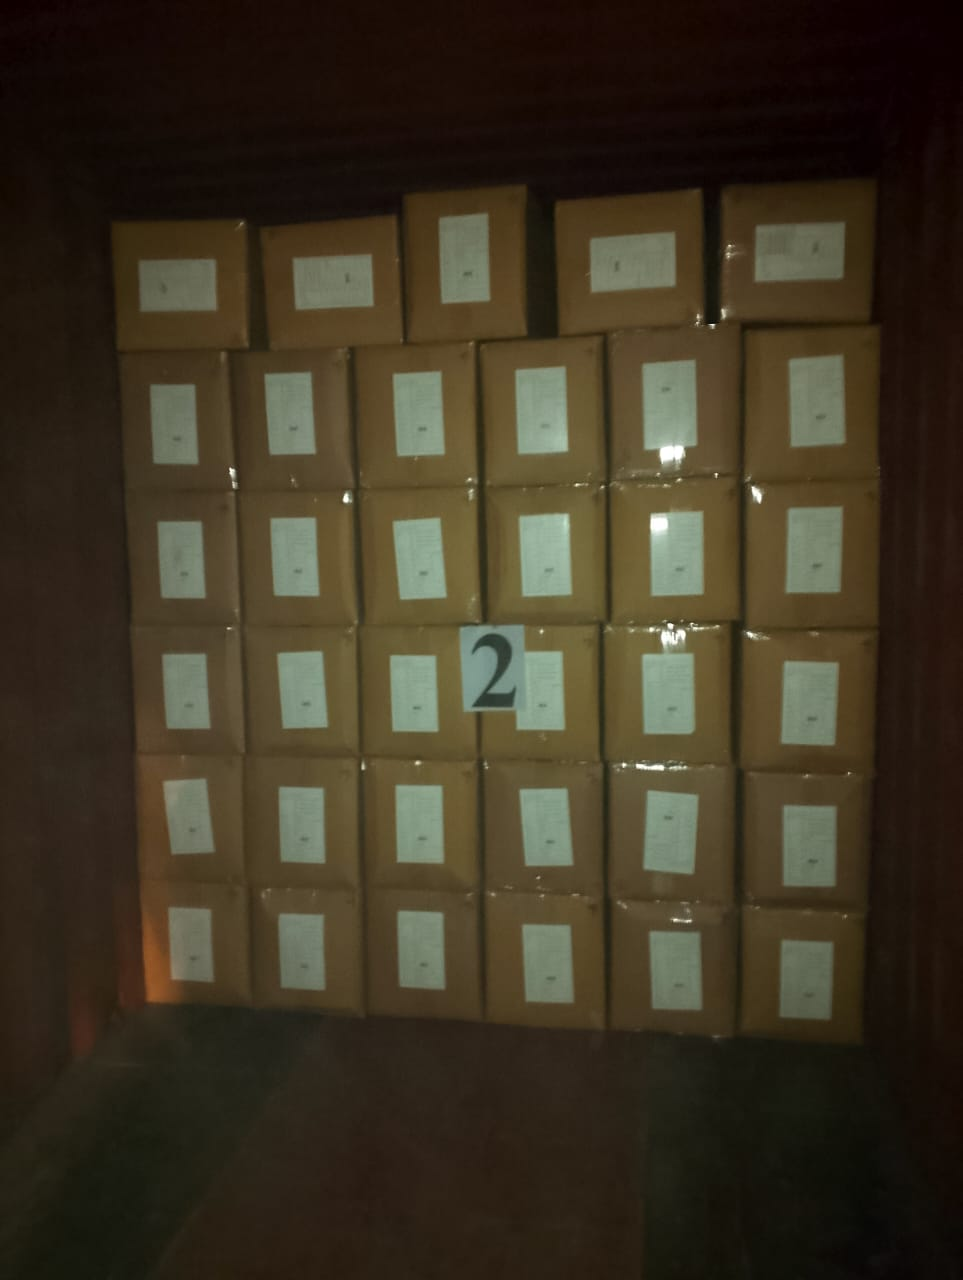
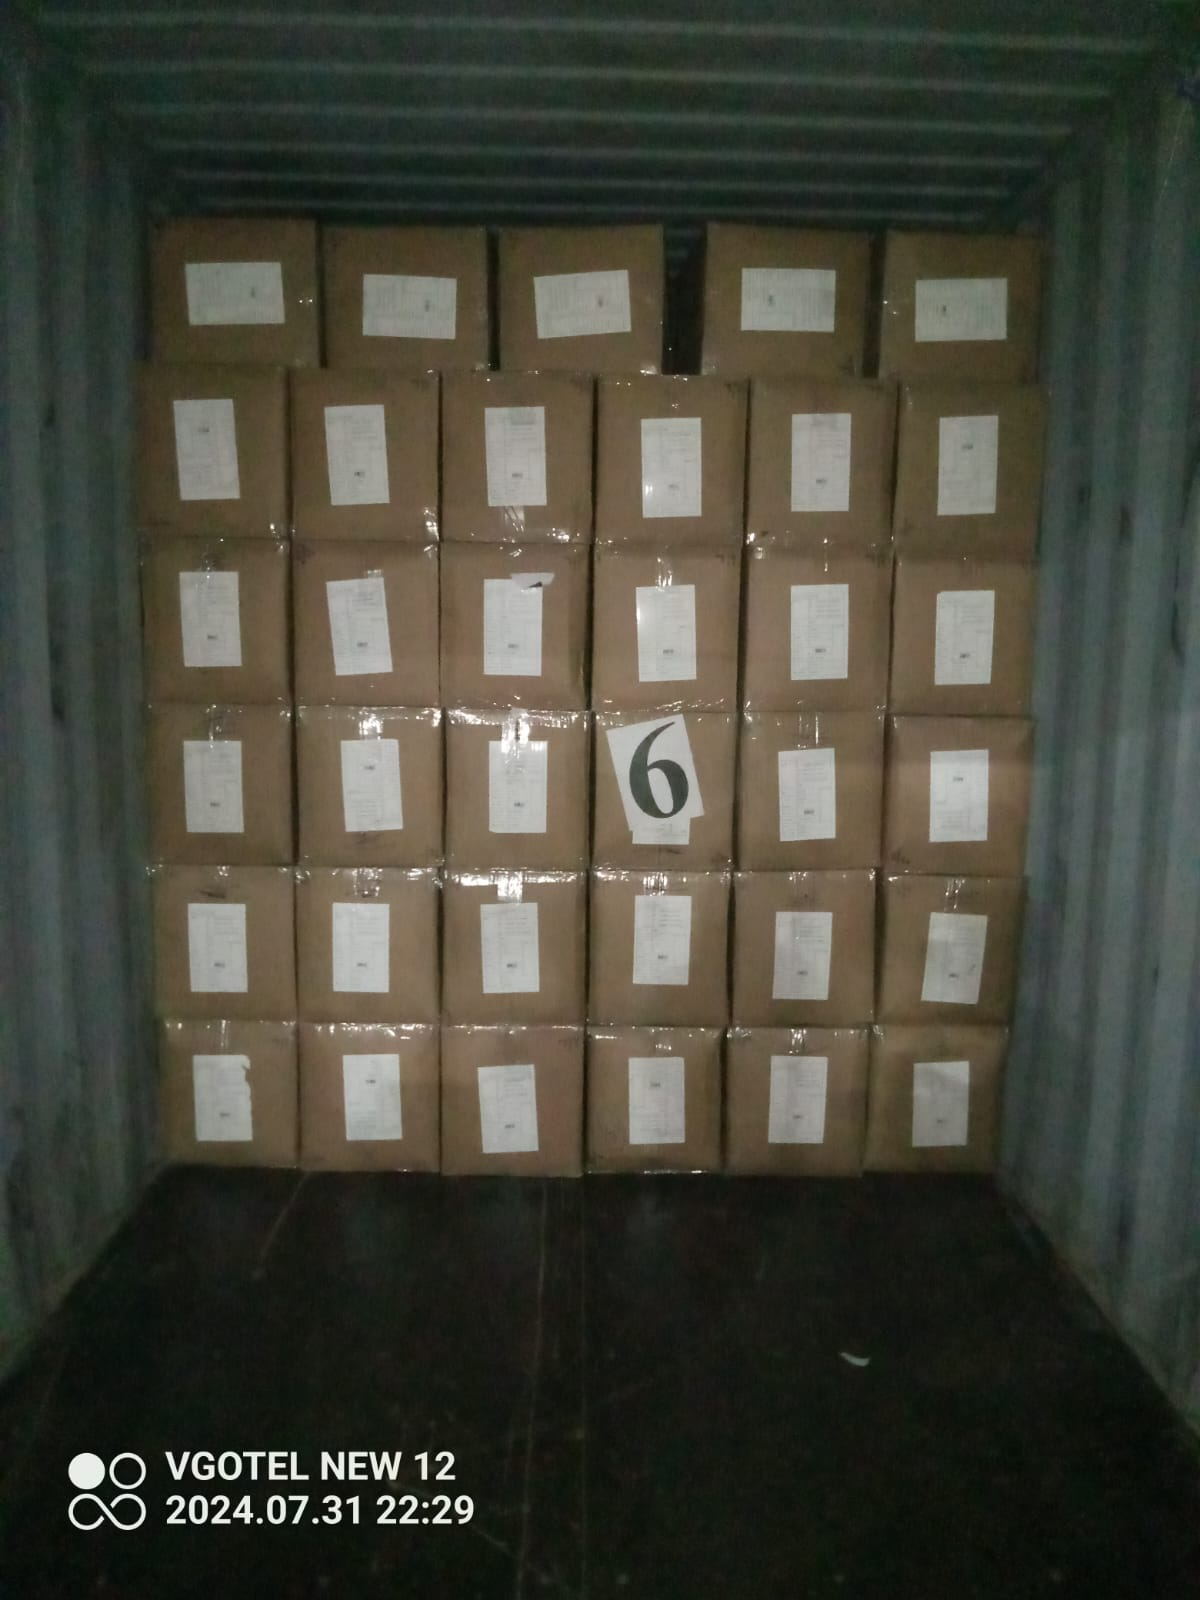
final version

diff --git a/detection.py b/detection.py
@@ -1,10 +1,11 @@
-# import colorsys
-# import supervision as sv
-# from PIL import Image
-# from ultralytics import YOLO
-# import matplotlib.pyplot as plt
-# import supervision as sv
-# from PIL import Image
+import colorsys
+import supervision as sv
+from PIL import Image
+from ultralytics import YOLO
+import matplotlib.pyplot as plt
+import supervision as sv
+from PIL import Image
+
 
 
 
@@ -50,21 +51,34 @@
 
 
 
-# model = YOLO('new_weights/best.pt')
-# #model = YOLO('weights/last.pt')
+# model = YOLO('model/best.pt')
 
 # def detect_objects(image):
 
 #     result = model.predict(image, verbose=False, conf=0.50)[0]
 #     detections = sv.Detections.from_ultralytics(result)
 #     detections = detections.with_nms(threshold=0.50, class_agnostic=True)
-#     ann_img = annotate(image, detections)
-        
-#     return len(detections), ann_img
+    
+#     return len(detections)
 
 
-# l, i = detect_objects(Image.open(r"C:\Users\EXPK0322\OneDrive - Pakistan Oxygen Limited\Carton Images\Container Carton Pics\1772077019250.jpg"))
+# l = detect_objects(Image.open(r"C:\Users\EXPK0322\OneDrive - Pakistan Oxygen Limited\Carton Images\Container Carton Pics\1772077019250.jpg"))
 # print("No of cartons: ", l)
-# i.show()
 
 
+
+
+model = YOLO('model/best.pt')
+
+def detect_objects(image):
+
+    result = model.predict(image, verbose=False, conf=0.40)[0]
+    detections = sv.Detections.from_ultralytics(result)
+    detections = detections.with_nms(threshold=0.50, class_agnostic=True)
+
+    # unsure = False
+    # for d in detections:
+    #     if (d[2] <= 0.50) and ():
+    #         unsure = True
+        
+    return len(detections)

diff --git a/router.py b/router.py
@@ -4,7 +4,7 @@ import base64
 from io import BytesIO
 from PIL import Image
 from pydantic import BaseModel
-#from detection import detect_objects
+from detection import detect_objects
 
 router = APIRouter(prefix="", tags=["carton-counter"])
 
@@ -28,13 +28,13 @@ async def get_object_counts(payload: RequestBody):
     else:
         image = Image.open(BytesIO(base64.b64decode(payload.image_base64)))
 
-        #n_cartons = detect_objects(image)
+        n_cartons = detect_objects(image)
 
         return {
             "header": {
                 "success": True,
                 "Object": payload.object_to_count.title(),
-                "Counts": 0,
+                "Counts": n_cartons,
                 "message": None
             }
         }